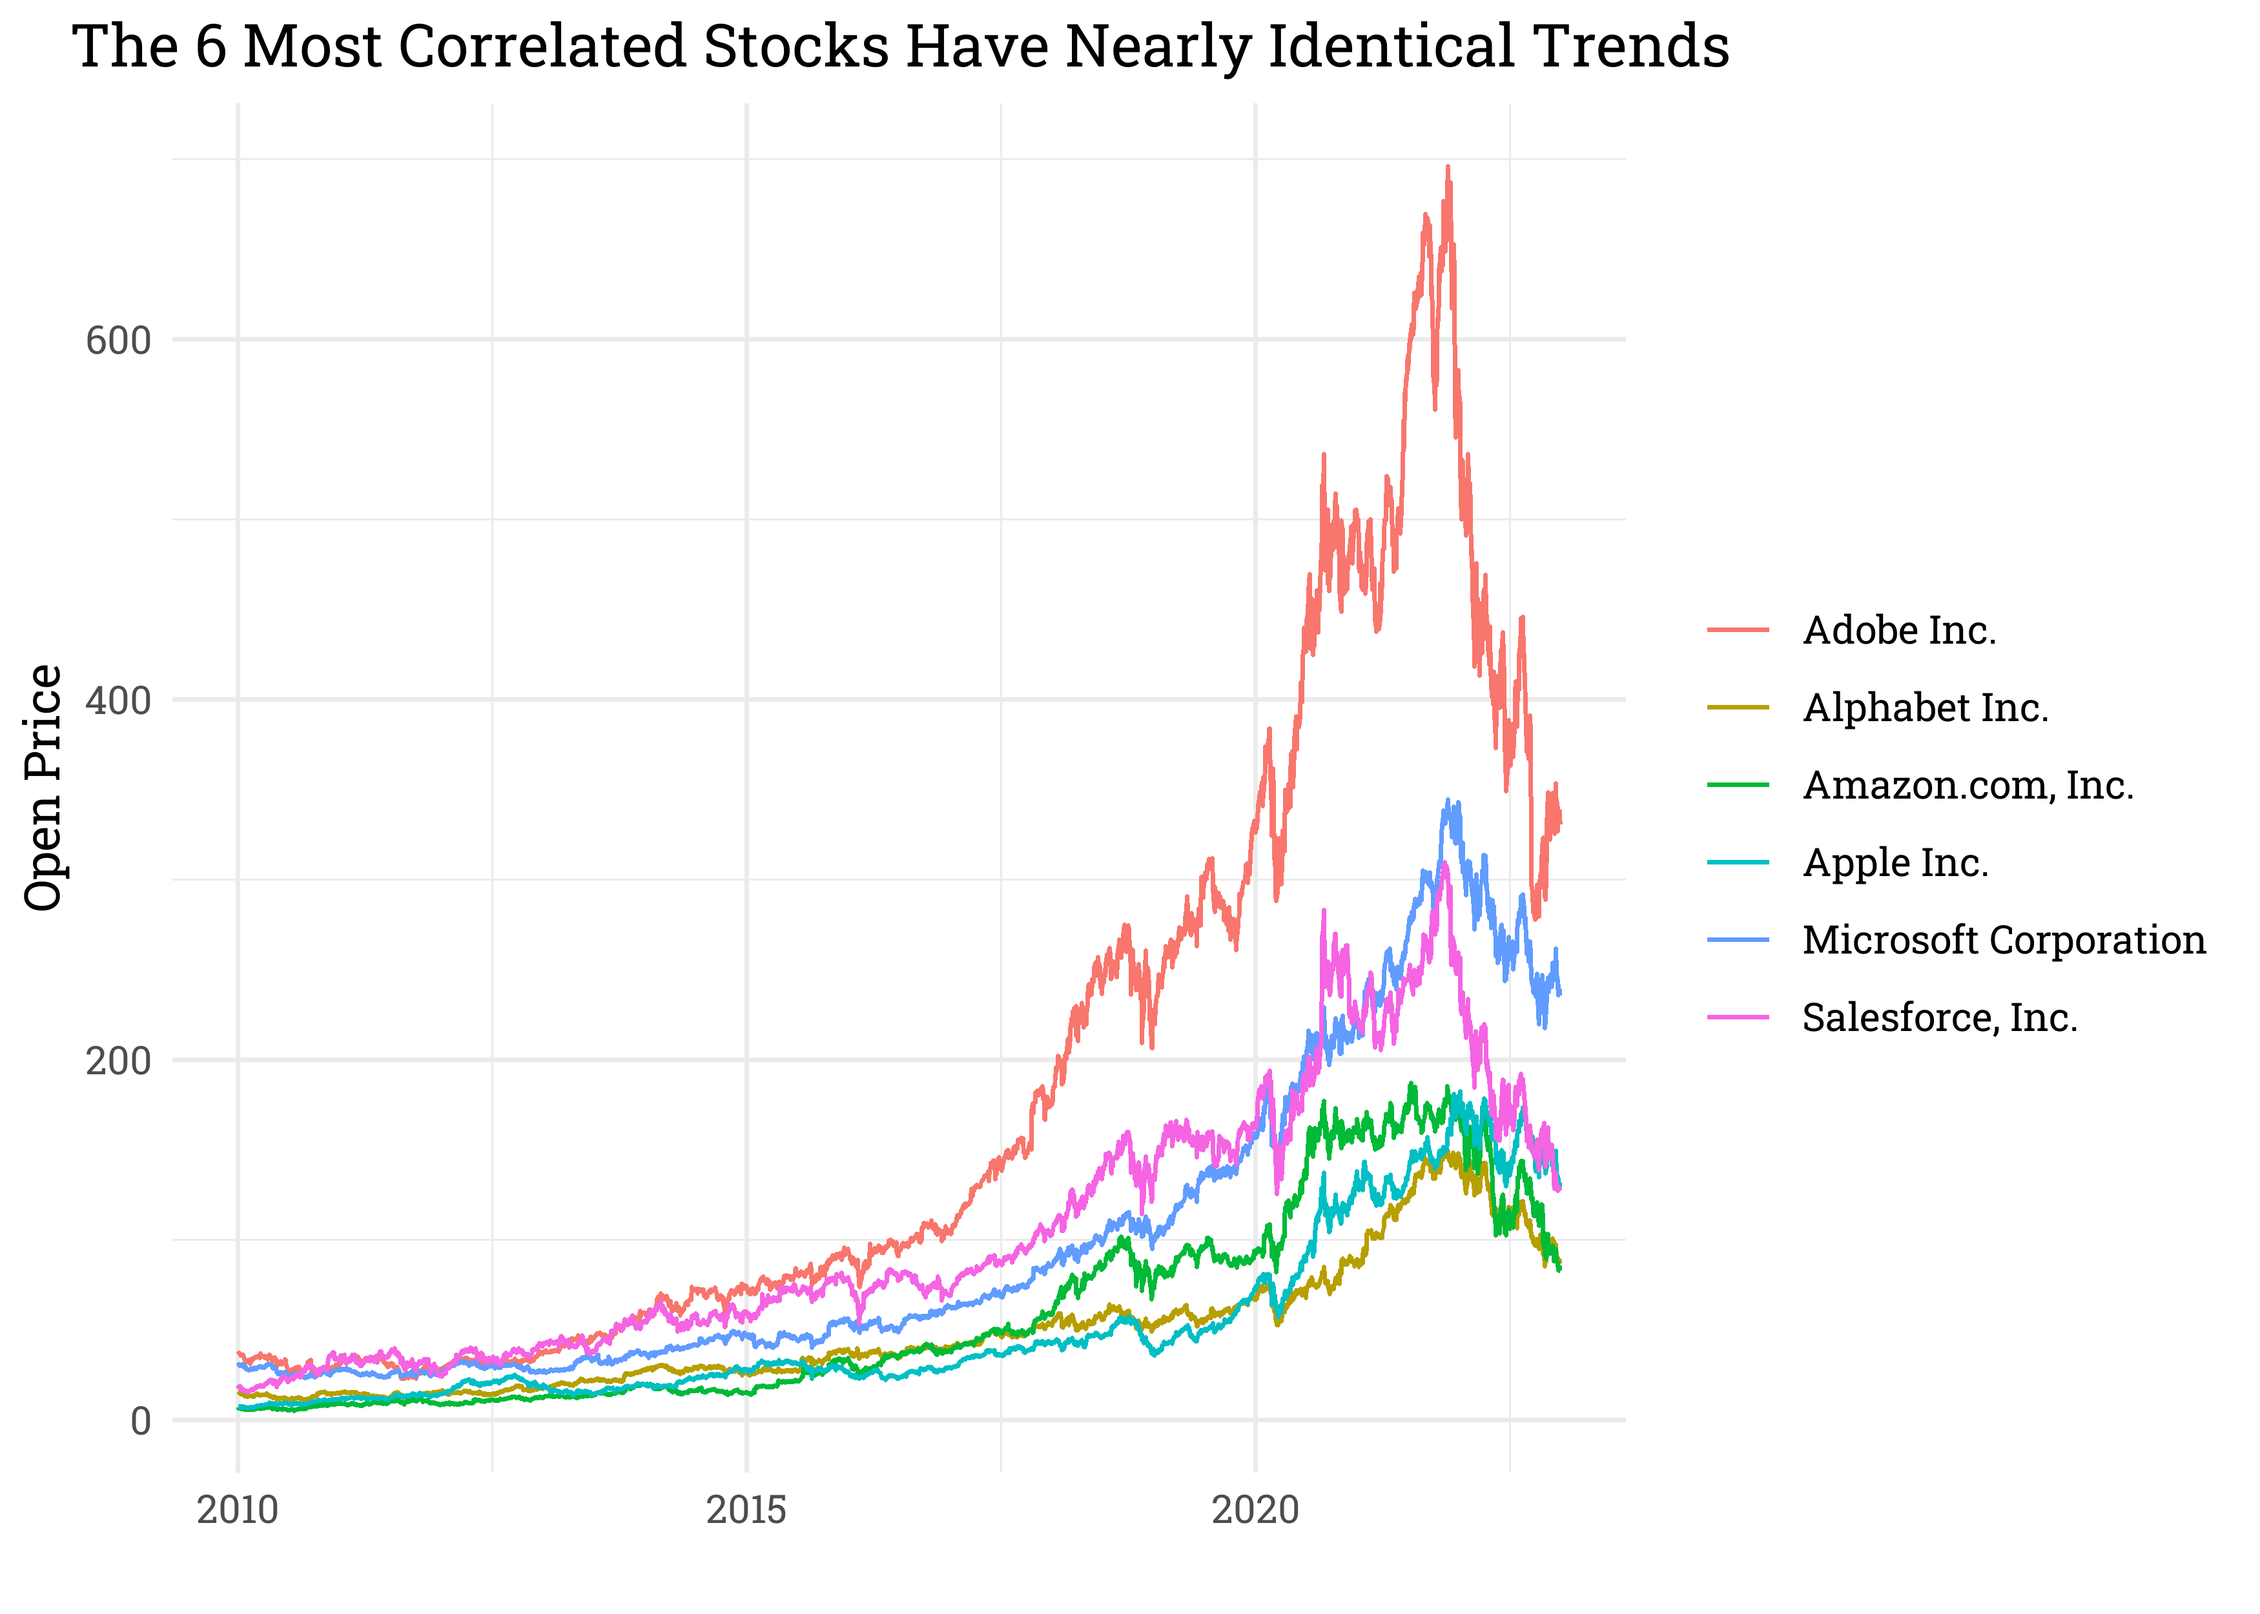
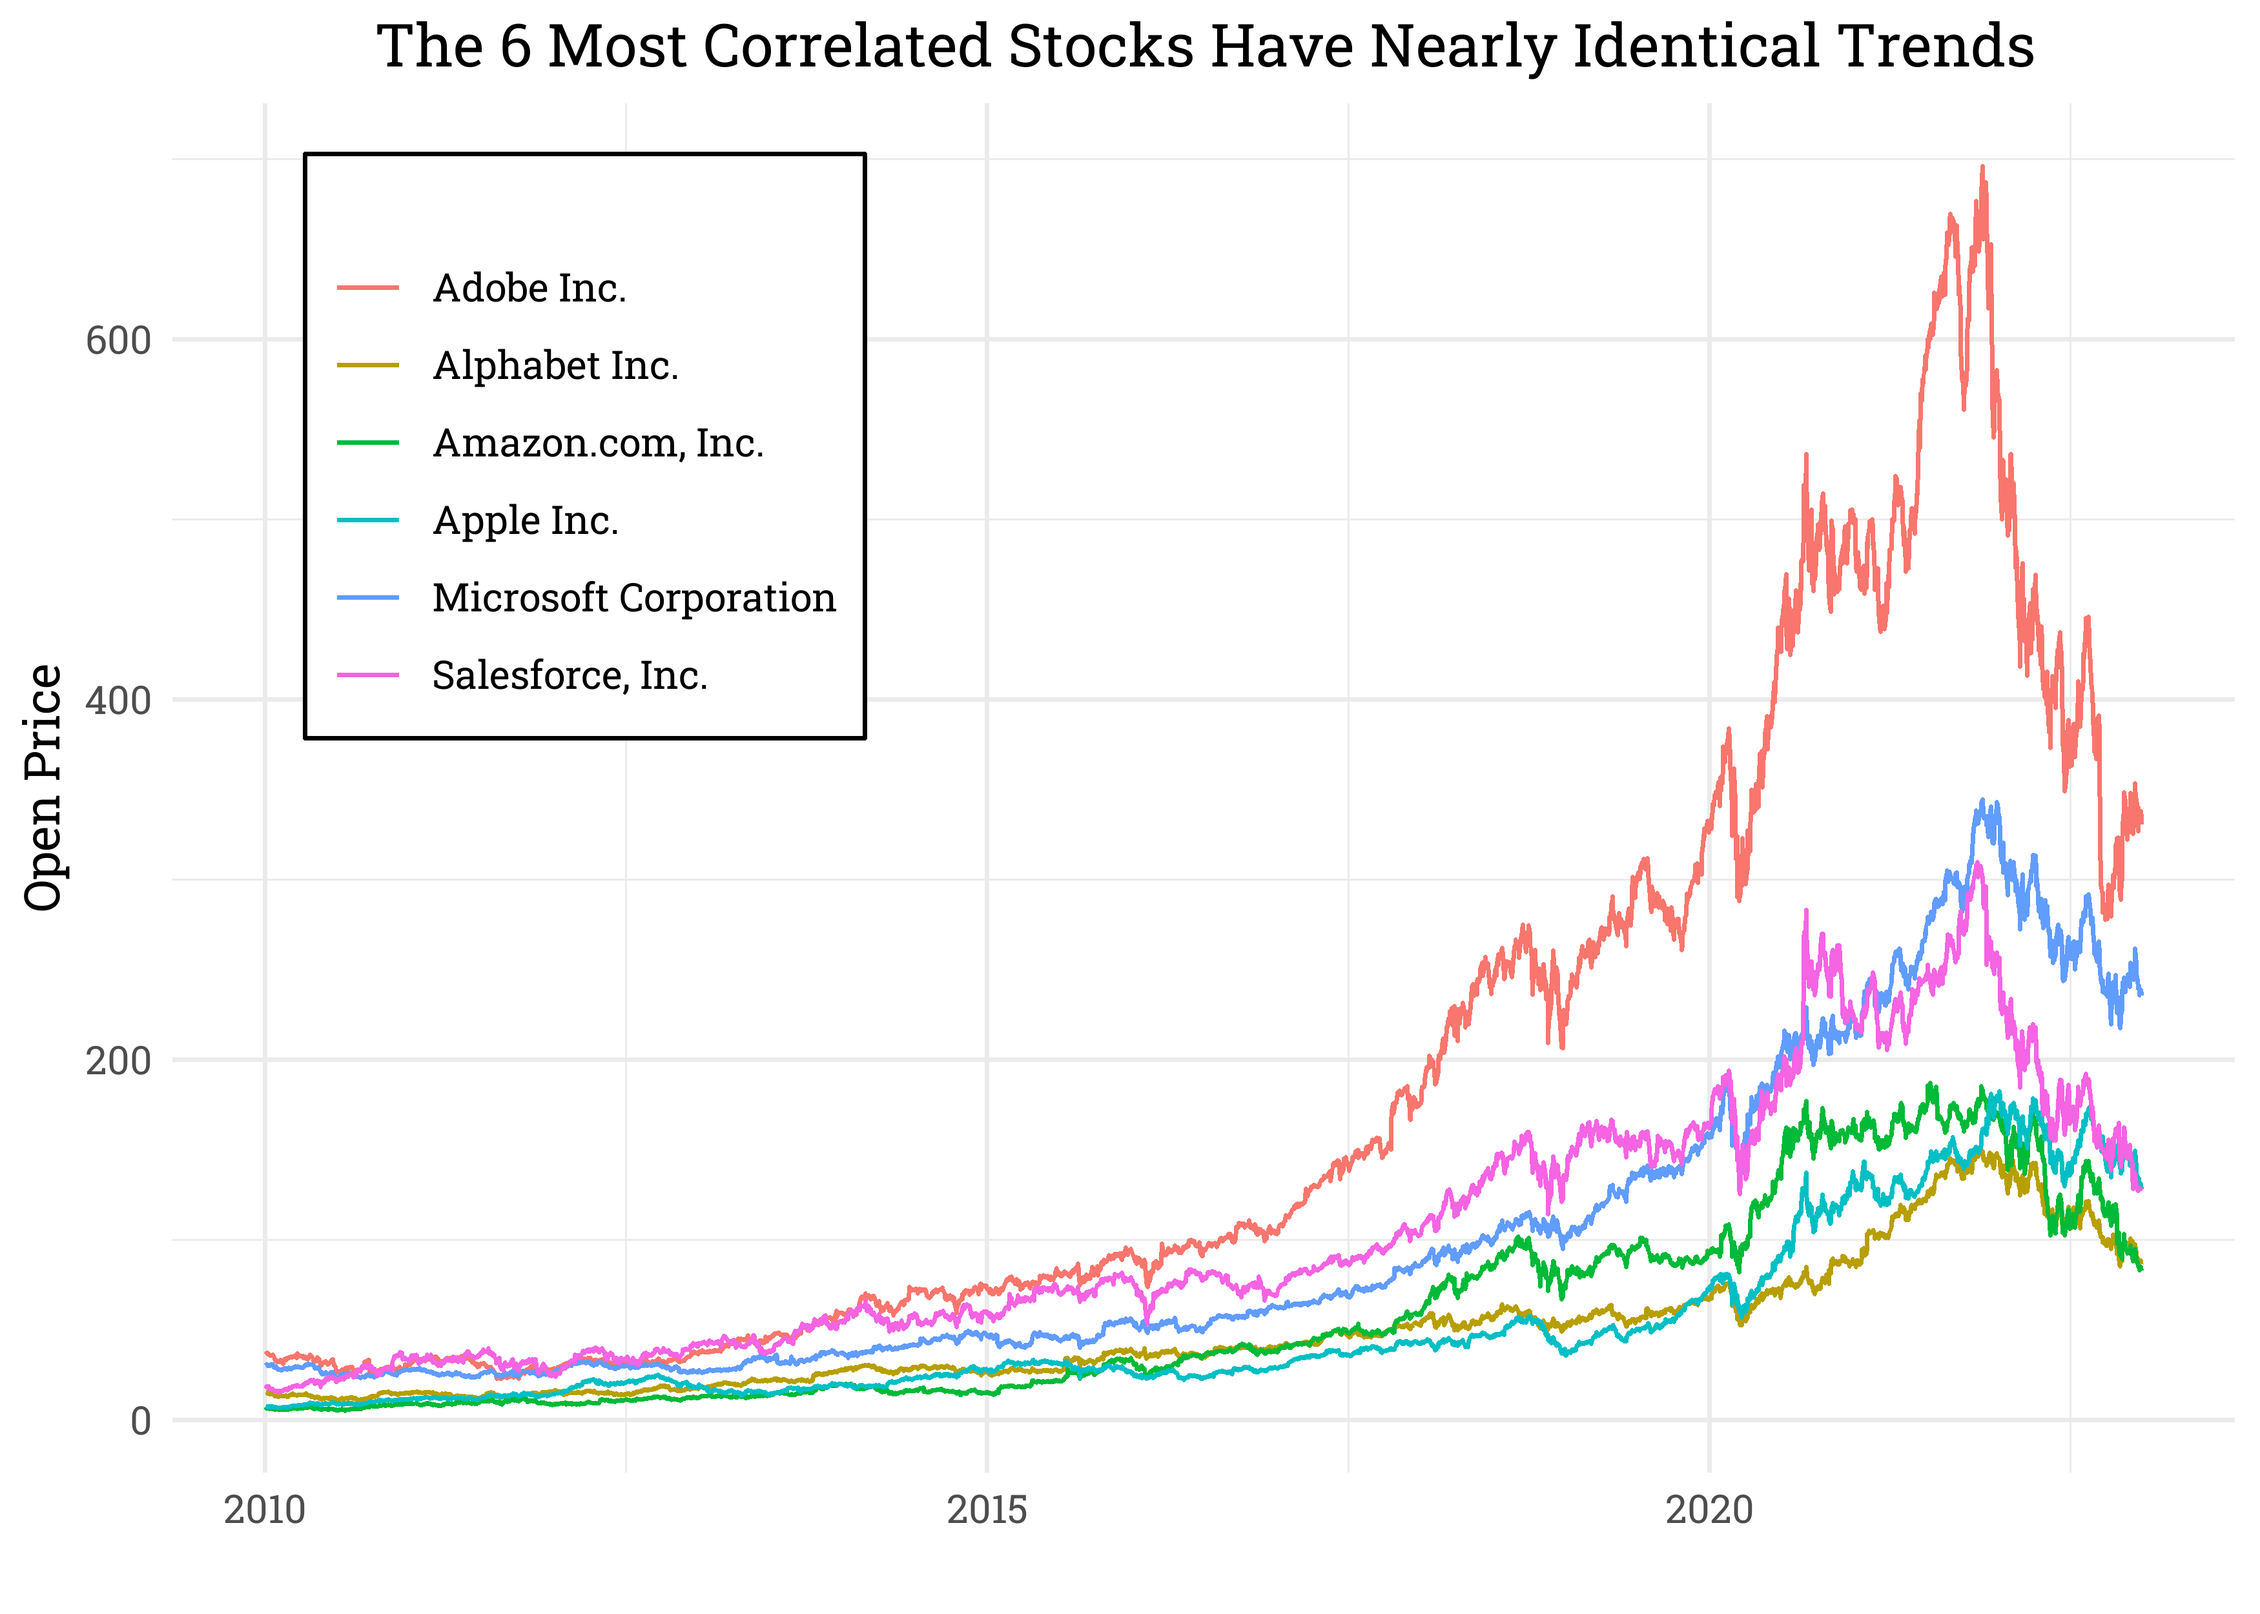
Low Correlation

diff --git a/Tech Stock Prices/Tech-Stock-Prices.md b/Tech Stock Prices/Tech-Stock-Prices.md
@@ -15,6 +15,9 @@ Matthew
     - <a href="#arima" id="toc-arima">ARIMA</a>
 - <a href="#correlated-stocks" id="toc-correlated-stocks">Correlated
   Stocks</a>
+  - <a href="#highly-correlated" id="toc-highly-correlated">Highly
+    Correlated</a>
+  - <a href="#low-correlation" id="toc-low-correlation">Low Correlation</a>
 
 *Data from Evan Gower on
 [Kaggle](https://www.kaggle.com/datasets/evangower/big-tech-stock-prices?resource=download&select=TSLA.csv)*
@@ -320,6 +323,8 @@ lines(ts_aapl)
     ## 10 Apple Inc.            Alphabet Inc.               0.965
     ## # ... with 81 more rows
 
+## Highly Correlated
+
 ``` r
 stocks %>% 
   filter(company %in% 
@@ -327,7 +332,9 @@ stocks %>%
   ggplot(aes(date, open, color = company)) + 
   geom_line() +
   labs(x = "", y = "Open Price", color = "",
-       title = "The 6 Most Correlated Stocks Have Nearly Identical Trends")
+       title = "The 6 Most Correlated Stocks Have Nearly Identical Trends") +
+  theme(legend.position = c(0.2,0.75),
+        legend.background = element_rect(fill = "white"))
 ```
 
 ![](Tech-Stock-Prices_files/figure-gfm/unnamed-chunk-16-1.png)<!-- -->
@@ -347,3 +354,43 @@ stocks %>%
     ## `geom_smooth()` using formula 'y ~ x'
 
 ![](Tech-Stock-Prices_files/figure-gfm/unnamed-chunk-16-2.png)<!-- -->
+
+## Low Correlation
+
+``` r
+stock_corr %>% 
+  filter(str_detect(item1, "Netflix") & str_detect(item2, "Machine"))
+```
+
+    ## # A tibble: 1 x 3
+    ##   item1         item2                                       correlation
+    ##   <chr>         <chr>                                             <dbl>
+    ## 1 Netflix, Inc. International Business Machines Corporation      -0.546
+
+``` r
+stocks %>% 
+  filter(str_detect(company, "Netflix|Machine")) %>% 
+  ggplot(aes(date, open, color = name)) + 
+  geom_line() +
+  labs(x = "", y = "Open Price", color = "",
+       title = "IBM and Netflix Have Very Different Trends") +
+  theme(legend.position = c(0.45,0.8))
+```
+
+![](Tech-Stock-Prices_files/figure-gfm/unnamed-chunk-17-1.png)<!-- -->
+
+``` r
+stocks %>% 
+  filter(str_detect(company, "Netflix|Machine")) %>% 
+  select(date, name, open) %>% 
+  pivot_wider(names_from = name, values_from = open) %>% 
+  ggplot(aes(`IBM`, `NFLX`)) +
+  geom_point(alpha = 0.7, color = "steelblue2") +
+  geom_smooth(method = "lm", se = FALSE, color = "black",
+              linetype = "dashed") +
+  labs(title = "IBM and Netflix")
+```
+
+    ## `geom_smooth()` using formula 'y ~ x'
+
+![](Tech-Stock-Prices_files/figure-gfm/unnamed-chunk-17-2.png)<!-- -->
